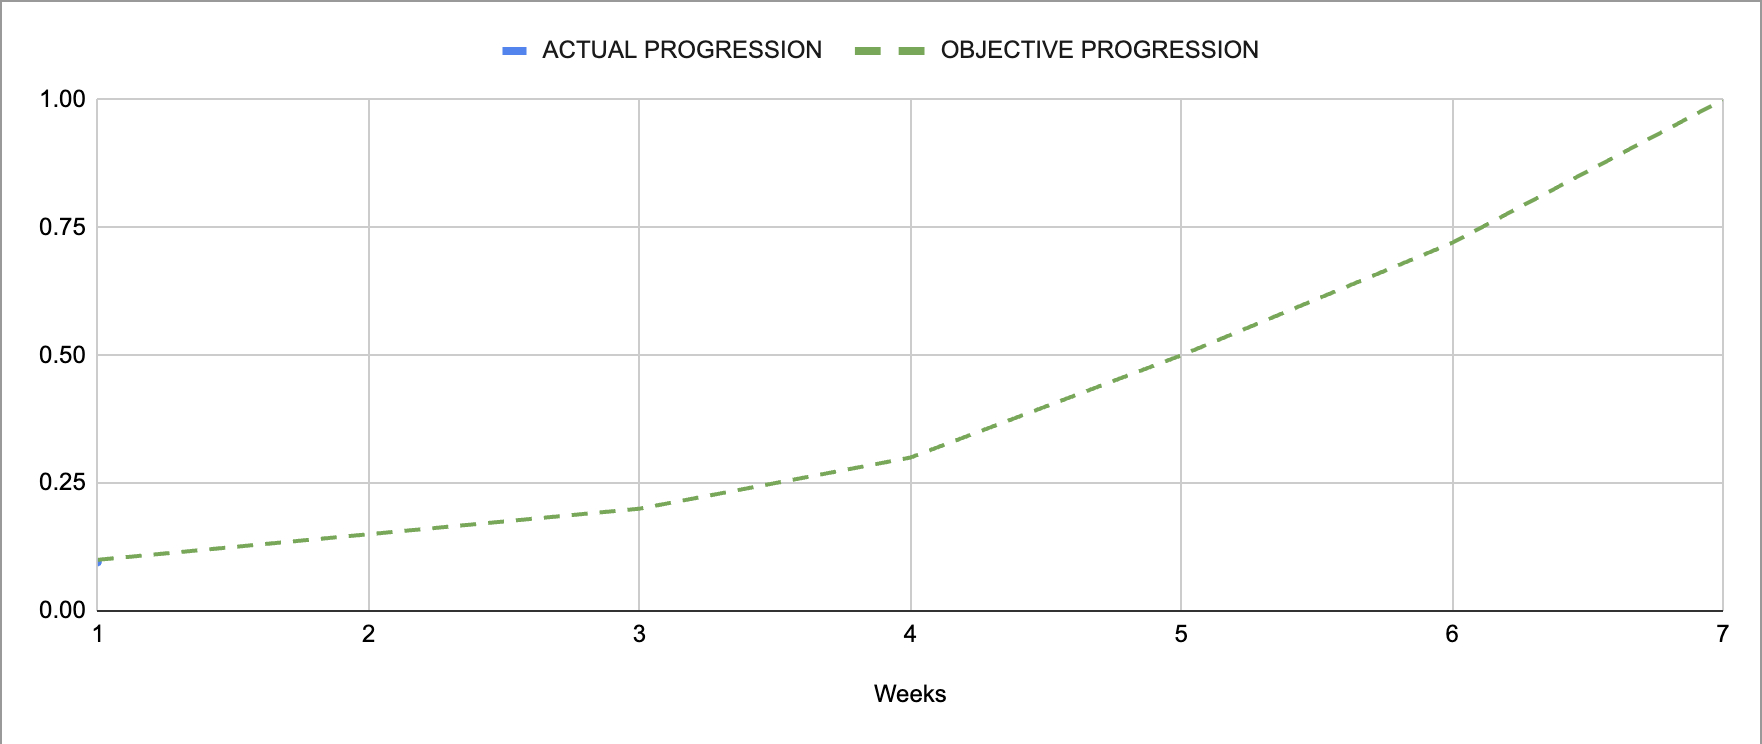
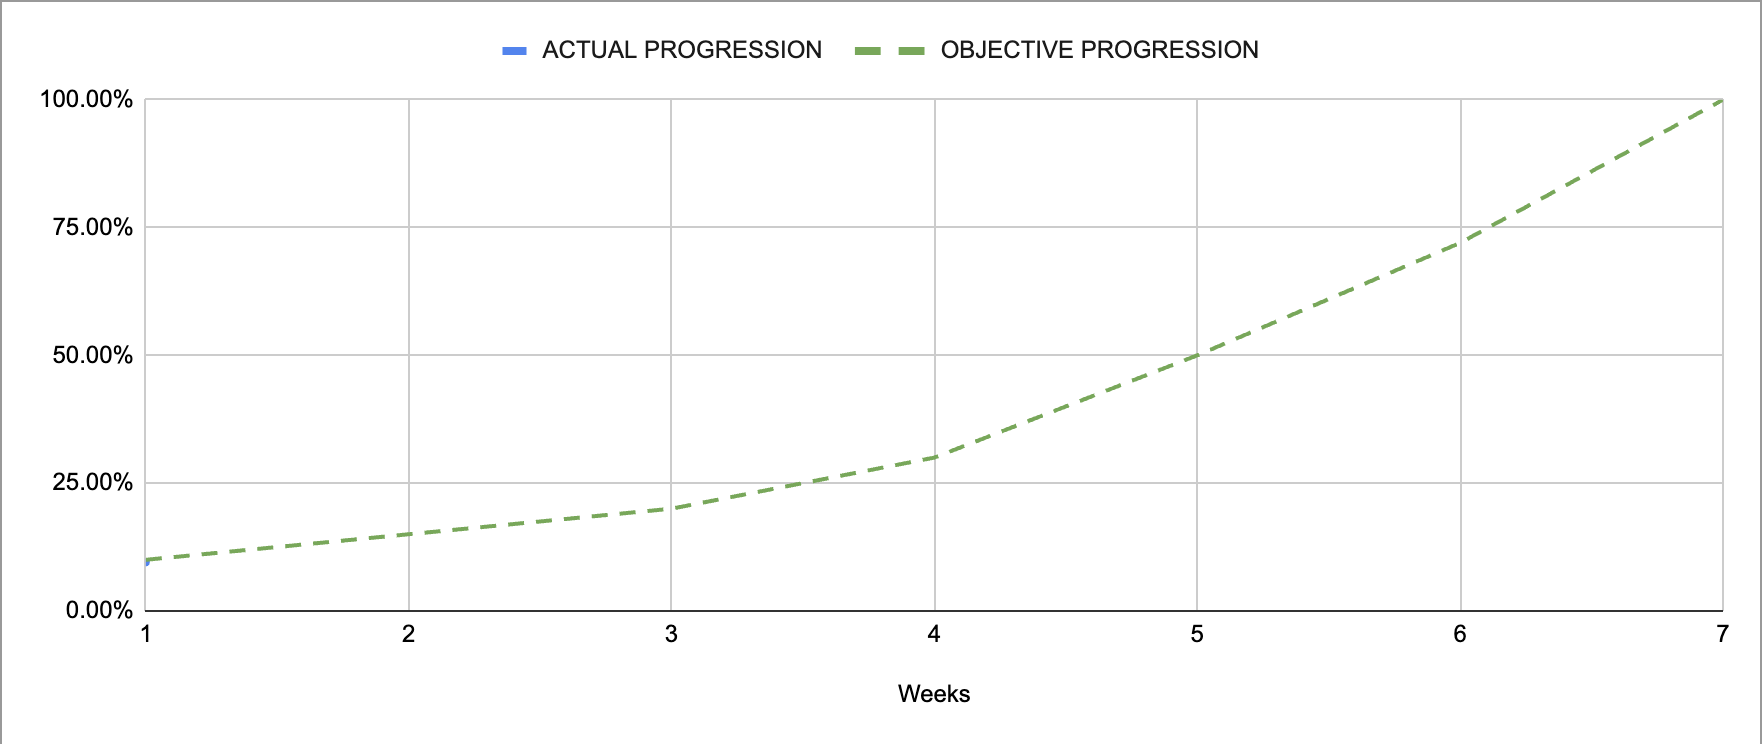
update Report week 1
Correction small spelling mistakes and graph legend

diff --git a/Documents/Weekly-Reports/Report-Week-1.md b/Documents/Weekly-Reports/Report-Week-1.md
@@ -5,7 +5,7 @@ Project x86-retrogaming -- Team 3
 
 <h4 align="center">6/11/2023 to 10/11/2023</h4>
 
-<p align="right">last modified : 8/11/2023</p>
+<p align="right">last modified : 10/11/2023</p>
 
 ### Ongoing tasks
 
@@ -34,7 +34,7 @@ Project x86-retrogaming -- Team 3
 
 ### Week Feedback
 
-The overall feeling of the team is that we struggled a bit to get started but we are now on the right path. Everyone has a pretty good feeling about the theme of the project and our current progression. We tackled task assignement and did a detailed analysis of the requirements along with our own objectives for this project.
+The overall feeling of the team is that we struggled a bit to get started but we are now on the right path. Everyone has a pretty good feeling about the theme of the project and our current progression. We tackled task assignments and did a detailed analysis of the requirements along with our own objectives for this project.
 
 Even if we are a bit late on the schedule compared to what our objective was for this week, the team and I think that we should be able to catch up to it and get back on track as soon as next week.
 
